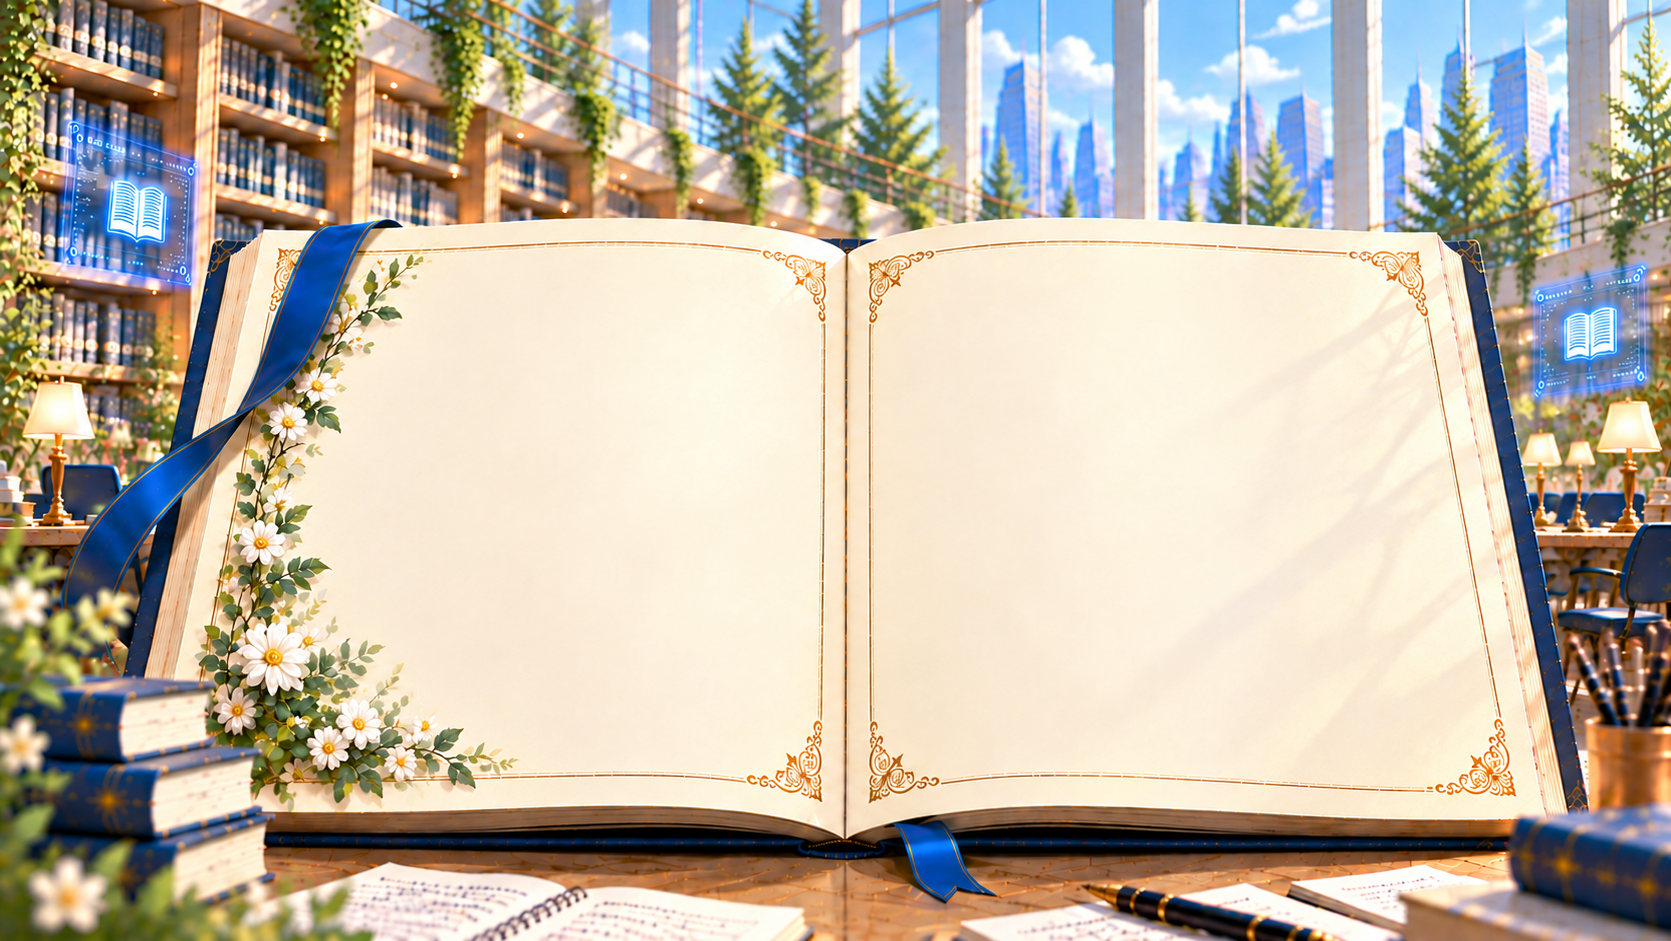
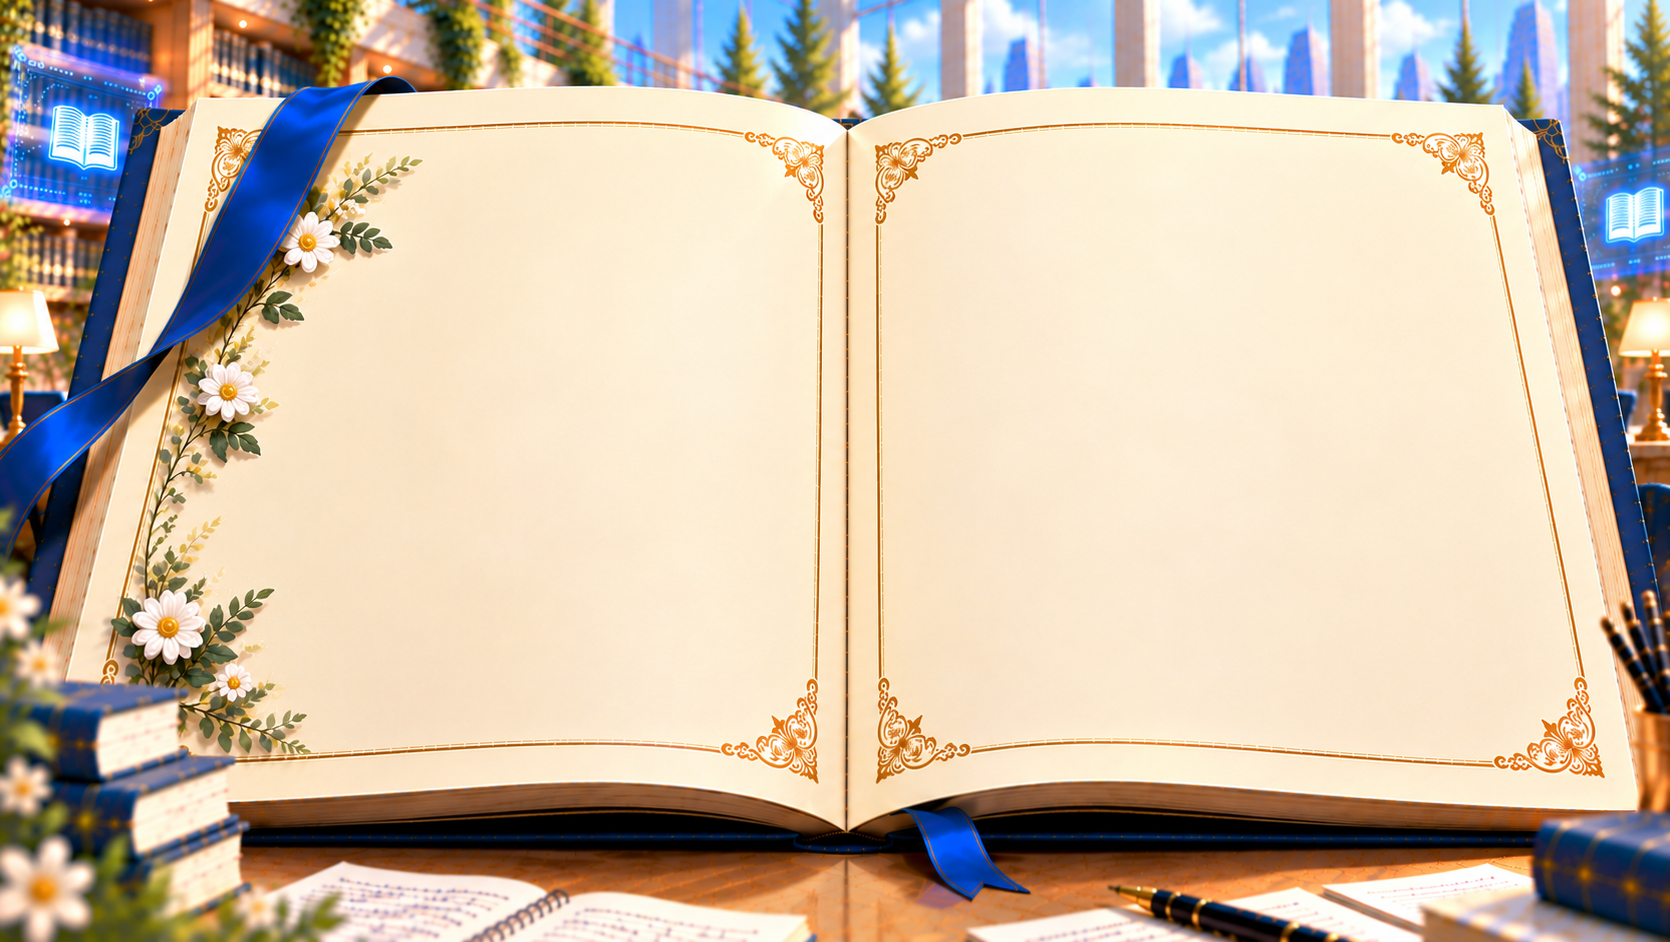
ホーム画面

diff --git a/css/login.css b/css/login.css
@@ -120,8 +120,8 @@
 
   min-width: 0;
   min-height: 0;
-  left: 110px;
-  padding: clamp(210px, 10.5vh, 112px) clamp(28px, 4.2vw, 70px) 100px;
+  left: 80px;
+  padding: clamp(140px, 10.5vh, 112px) clamp(28px, 4.2vw, 70px) 100px;
 
   text-align: center;
 }
@@ -150,7 +150,7 @@
 
   /* ロゴを少しだけ控えめにして、本の余白になじませる */
   width: clamp(200px, 23vw, 300px);
-  max-width: 55%;
+  max-width: 60%;
 
   /* ロゴとキャッチコピーの間隔を調整 */
   margin: 0 auto 18px;
@@ -176,10 +176,10 @@
   object-fit: contain;
   object-position: center;
 
-  filter: drop-shadow(0 1px 1px rgb(91 58 17 / 8%));
-
-  /* ロゴ画像の周囲に余計な装飾を足さない */
-  filter: drop-shadow(0 2px 2px rgb(91 58 17 / 10%));
+  /* 紙に印刷されたような自然ななじみ */
+  mix-blend-mode: multiply;
+  opacity: 0.97;
+  filter: drop-shadow(0 0.5px 0 rgb(91 58 17 / 6%));
 }
 
 /* ========================================
@@ -193,13 +193,16 @@
 
   font-family: "Yu Mincho", "Hiragino Mincho ProN", "Noto Serif JP", serif;
 
-  font-size: clamp(30px, 2.25vw, 36px);
+  font-size: clamp(45px, 2.25vw, 36px);
   font-weight: 600;
 
   line-height: 1.7;
   letter-spacing: 0.12em;
 
   text-align: center;
+
+  text-shadow: 0 0.5px 0 rgb(255 255 255 / 22%);
+  mix-blend-mode: multiply;
 }
 
 /* ========================================
@@ -237,6 +240,10 @@
   letter-spacing: 0.045em;
 
   text-align: center;
+
+  text-shadow: 0 0.5px 0 rgb(255 255 255 / 18%);
+  mix-blend-mode: multiply;
+  opacity: 0.94;
 }
 
 /* ========================================
@@ -247,8 +254,8 @@
   position: absolute;
   z-index: 2;
 
-  left: 50%;
-  bottom: clamp(82px, 13vh, 125px);
+  left: 42%;
+  bottom: clamp(160px, 13vh, 125px);
 
   display: flex;
   align-items: center;
@@ -365,10 +372,13 @@
   min-width: 0;
   min-height: 0;
 
-  left: -20px;
+  left: 12px;
+
+  transform: rotate(0.7deg);
+  transform-origin: center center;
 
   /* 右ページの上部余白を調整 */
-  padding: clamp(225px, 9.5vh, 105px) clamp(28px, 4.2vw, 70px) 65px;
+  padding: clamp(142px, 9.5vh, 105px) clamp(28px, 4.2vw, 70px) 65px;
 
   color: var(--lumi-navy);
 }
@@ -388,21 +398,27 @@
   margin: 0 0 10px;
   color: #786044;
   font-family: Georgia, "Times New Roman", serif;
-  font-size: clamp(12px, 1vw, 15px);
+  font-size: clamp(18px, 1vw, 15px);
   font-weight: 600;
   letter-spacing: 0.12em;
   line-height: 1.7;
+  mix-blend-mode: multiply;
 }
 
 .login-page .login-panel__title {
   margin: 0;
   color: #173e76;
   font-family: "Yu Mincho", "Hiragino Mincho ProN", "Noto Serif JP", serif;
-  font-size: clamp(32px, 2.6vw, 40px);
+  font-size: clamp(45px, 2.6vw, 40px);
   font-weight: 600;
   line-height: 1.5;
   letter-spacing: 0.22em;
   text-indent: 0.22em;
+
+  /* 紙に印刷された文字のようになじませる */
+  mix-blend-mode: multiply;
+  opacity: 0.98;
+  text-shadow: 0 0.4px 0 rgb(90 62 28 / 8%);
 }
 
 .login-page .login-panel__ornament {
@@ -421,10 +437,11 @@
   color: #426b96;
   font-family:
     "Yu Gothic", "Hiragino Kaku Gothic ProN", "Noto Sans JP", sans-serif;
-  font-size: clamp(14px, 1.05vw, 16px);
+  font-size: clamp(17px, 1.05vw, 16px);
   font-weight: 500;
   line-height: 1.9;
   letter-spacing: 0.045em;
+  mix-blend-mode: multiply;
 }
 
 /* ---------------------------------------------------------
@@ -450,34 +467,40 @@
   display: block;
   margin: 0 0 7px;
   color: #294d78;
-  font-size: 14px;
+  font-size: 17px;
   font-weight: 700;
   line-height: 1.6;
   letter-spacing: 0.04em;
+
+  mix-blend-mode: multiply;
+  opacity: 0.96;
 }
 
-/* 入力欄の外枠 */
-
+/* 入力欄：紙の上に自然に印刷されたような枠 */
 .login-page .login-form__input-wrap {
   position: relative;
   display: flex;
   align-items: center;
   width: 100%;
-  min-height: 51px;
+  min-height: 49px;
   overflow: hidden;
-  background: rgb(255 250 238 / 55%);
-  border: 1px solid rgb(180 143 91 / 48%);
-  border-radius: 8px;
-  box-shadow: none;
+
+  background: rgb(255 250 239 / 16%);
+  border: 1px solid rgb(151 119 76 / 30%);
+  border-radius: 4px;
+  box-shadow: inset 0 1px 1px rgb(111 81 42 / 3%);
+
   transition:
     border-color 0.2s ease,
-    background-color 0.2s ease;
+    background-color 0.2s ease,
+    box-shadow 0.2s ease;
 }
 
+/* 入力中：紙になじみながら、操作中だと分かる表示 */
 .login-page .login-form__input-wrap:focus-within {
-  background: rgb(255 252 244 / 82%);
-  border-color: #7194b6;
-  box-shadow: 0 0 0 2px rgb(54 105 153 / 8%);
+  background: rgb(255 252 245 / 55%);
+  border-color: rgb(49 105 158 / 65%);
+  box-shadow: 0 0 0 2px rgb(49 105 158 / 8%);
 }
 
 /* 入力アイコン */
@@ -517,7 +540,7 @@
   outline: none;
   font-family:
     "Yu Gothic", "Hiragino Kaku Gothic ProN", "Noto Sans JP", sans-serif;
-  font-size: 15px;
+  font-size: 16px;
   font-weight: 500;
   line-height: 1.6;
 }
@@ -576,7 +599,7 @@
   width: fit-content;
   margin: 2px 0 17px;
   color: #315581;
-  font-size: 13px;
+  font-size: 14px;
   font-weight: 500;
   line-height: 1.8;
   letter-spacing: 0.025em;
@@ -659,18 +682,16 @@
 
   color: #fffaf0;
 
-  background: linear-gradient(105deg, #103c78 0%, #07549b 53%, #2999cf 100%);
+  background: linear-gradient(105deg, #153f76 0%, #1768a8 100%);
 
-  border: 1px solid #d9a04a;
-  border-radius: 999px;
+  border: 1px solid rgb(217 160 74 / 65%);
+  border-radius: 7px;
 
-  box-shadow:
-    0 3px 7px rgb(78 61 34 / 13%),
-    inset 0 1px 0 rgb(255 255 255 / 16%);
+  box-shadow: 0 1px 3px rgb(78 61 34 / 9%);
 
   font-family: "Yu Mincho", "Hiragino Mincho ProN", "Noto Serif JP", serif;
 
-  font-size: 16px;
+  font-size: 18px;
   font-weight: 600;
   letter-spacing: 0.17em;
 
@@ -683,12 +704,8 @@
 }
 
 .login-page .login-form__submit:hover {
-  filter: brightness(1.07);
-
-  box-shadow:
-    0 5px 12px rgb(39 65 103 / 20%),
-    inset 0 1px 0 rgb(255 255 255 / 20%);
-
+  filter: brightness(1.04);
+  box-shadow: 0 2px 5px rgb(39 65 103 / 12%);
   transform: translateY(-1px);
 }
 
@@ -723,49 +740,60 @@
   font-family:
     "Yu Gothic", "Hiragino Kaku Gothic ProN", "Noto Sans JP", sans-serif;
 
-  font-size: 13px;
+  font-size: 15px;
   line-height: 1.7;
   overflow-wrap: anywhere;
 }
 
-/* ---------------------------------------------------------
-   17. パスワード再設定
---------------------------------------------------------- */
-
+/* パスワードを忘れた方はこちら */
 .login-page .login-form__forgot {
-  display: flex;
+  display: inline-flex;
   align-items: center;
   justify-content: center;
   gap: 7px;
 
   width: fit-content;
   max-width: 100%;
-
   margin: 16px auto 0;
   padding: 2px 4px;
 
   color: #315c8d;
-
-  font-size: 14px;
+  font-size: 15.5px;
   font-weight: 600;
   line-height: 1.9;
   letter-spacing: 0.025em;
 
   text-decoration: none;
+  border-bottom: 1px solid transparent;
   text-underline-offset: 3px;
 
-  transition: color 0.2s ease;
+  transition:
+    color 0.2s ease,
+    border-color 0.2s ease;
+
+  mix-blend-mode: multiply;
 }
 
+/* ホバー時もリンク全体を移動させない */
 .login-page .login-form__forgot:hover {
   color: #0b70b5;
-  text-decoration: underline;
+  border-bottom-color: currentColor;
+  text-decoration: none;
+  transform: none;
 }
 
+/* 右端の矢印 */
 .login-page .login-form__forgot span {
+  display: inline-block;
+  flex: 0 0 auto;
+
   color: #c18a36;
-  font-size: 21px;
+  font-size: 18px;
   line-height: 1;
+  text-decoration: none;
+
+  transform: none;
+  transition: none;
 }
 
 /* ---------------------------------------------------------
@@ -801,12 +829,12 @@
 
   color: #345982;
 
-  background: rgb(255 250 239 / 64%);
+  background: rgb(255 250 239 / 22%);
 
-  border: 1px solid #dba14b;
-  border-radius: 9px;
+  border: 1px solid rgb(190 139 65 / 48%);
+  border-radius: 4px;
 
-  font-size: 14px;
+  font-size: 15px;
   font-weight: 600;
   line-height: 1.8;
   letter-spacing: 0.025em;
@@ -821,9 +849,8 @@
 }
 
 .login-page .login-form__guest:hover {
-  background: rgb(255 251 242 / 94%);
-  border-color: #bd842f;
-
+  background: rgb(255 251 242 / 48%);
+  border-color: rgb(189 132 47 / 70%);
   transform: translateY(-1px);
 }
 
@@ -850,6 +877,15 @@
 .login-page button:focus-visible {
   outline: 3px solid rgb(35 119 187 / 50%);
   outline-offset: 3px;
+}
+
+/* 右ページ：補助テキスト */
+.login-page .login-panel__eyebrow,
+.login-page .login-panel__description,
+.login-page .login-form__label,
+.login-page .login-form__forgot {
+  mix-blend-mode: multiply;
+  opacity: 0.94;
 }
 
 /* ---------------------------------------------------------

diff --git a/pages/login.html b/pages/login.html
@@ -216,7 +216,7 @@
             </div>
 
             <!-- ゲスト利用 -->
-            <a class="login-form__guest" href="./guest.html">
+            <a class="login-form__guest" href="./home.html">
               <span class="login-form__guest-star" aria-hidden="true">✦</span>
 
               <span>ログインせずにゲストとして利用する</span>
